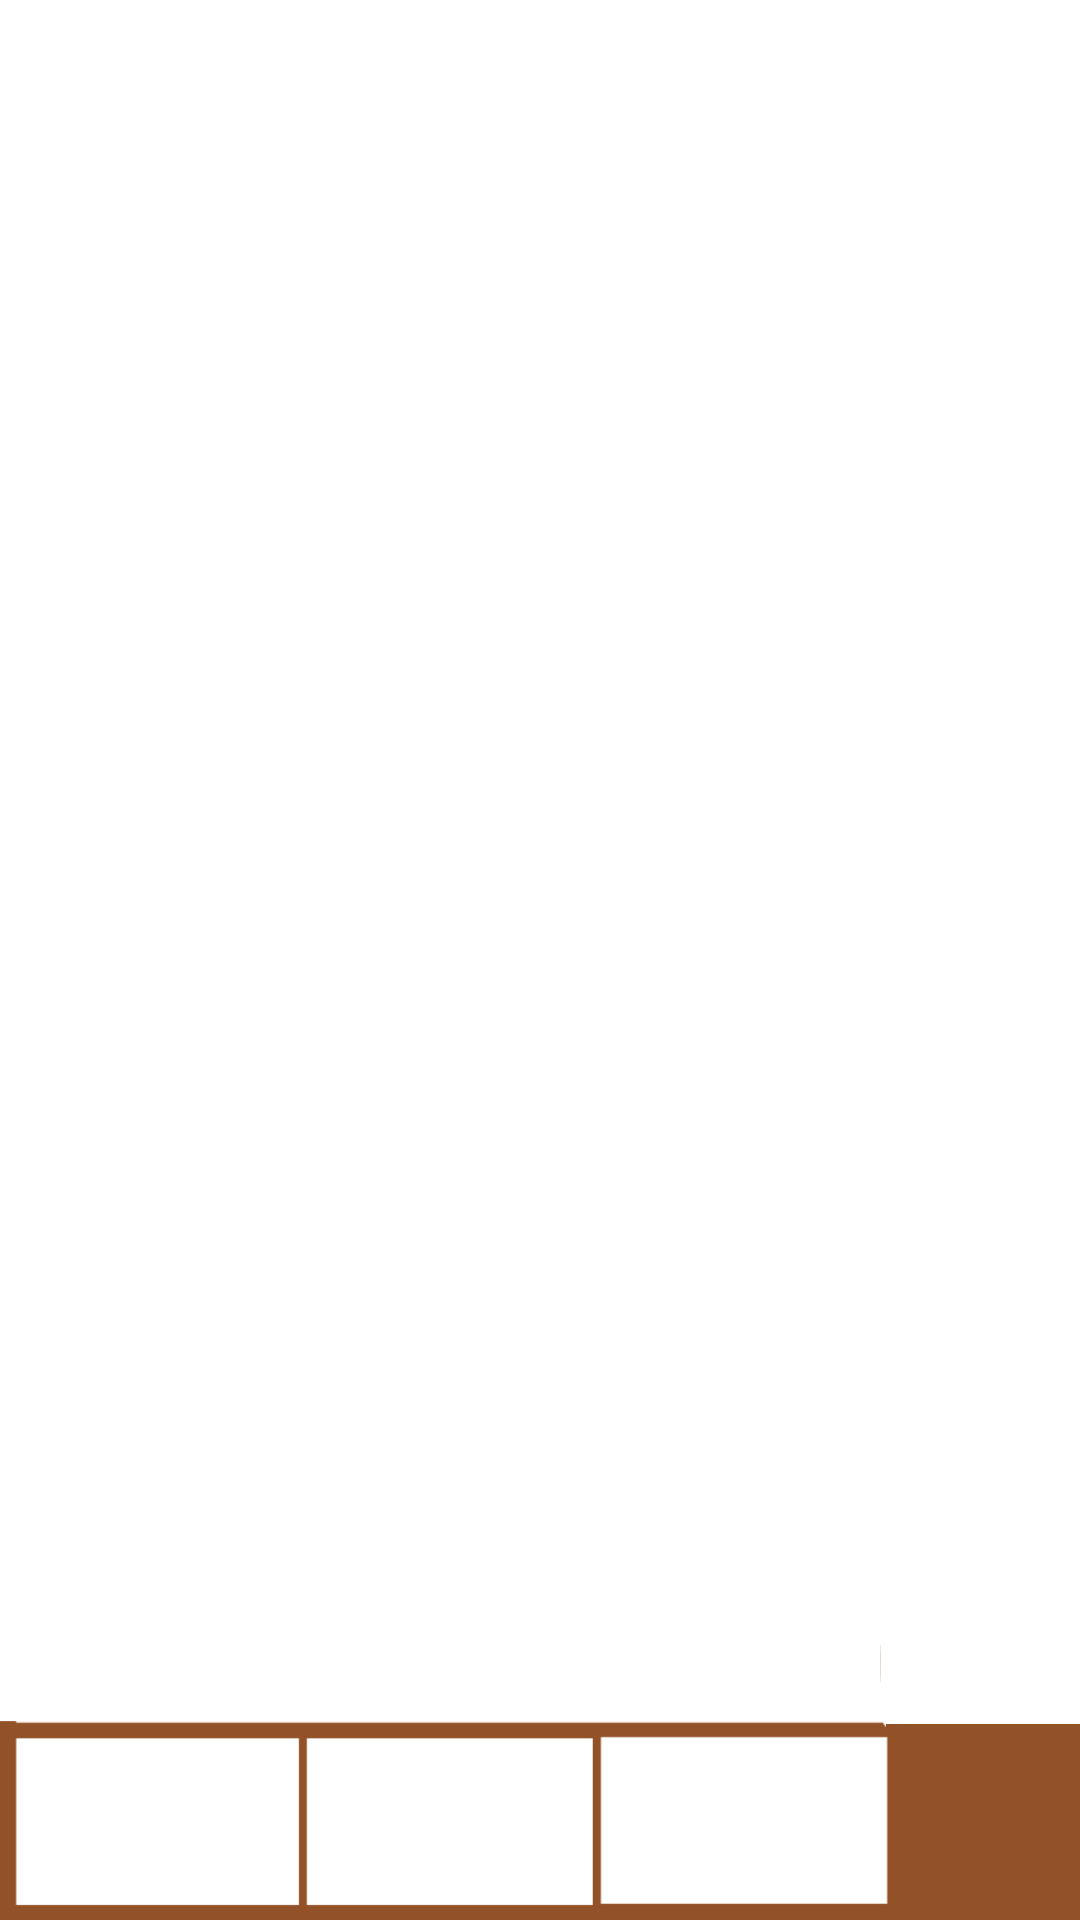
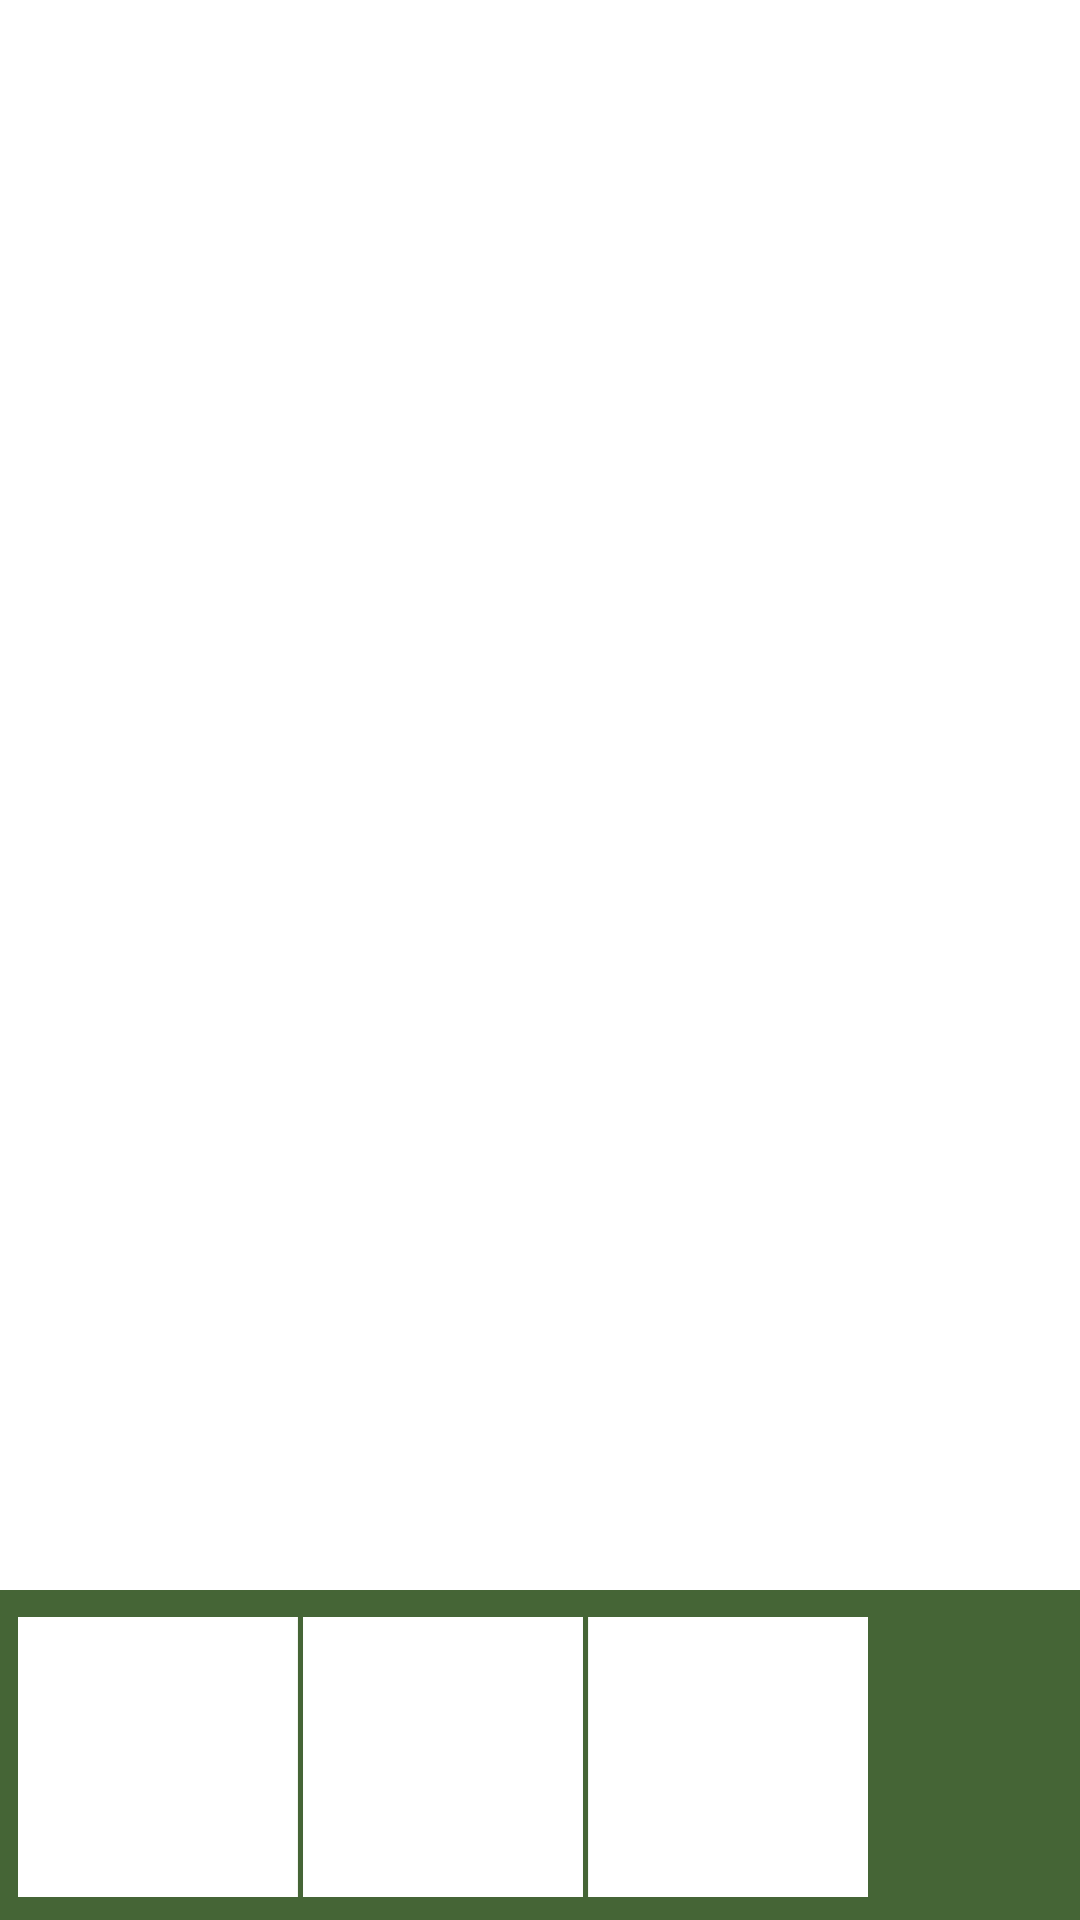
- Modificata UI - Dumby indicator ottimale con solo qualche modifica necessaria

Changed region(s): [[0.0, 0.8125, 1.0, 1.0]]

diff --git a/Assets/Scripts/Misc/DumbyIndicatorMovement.cs b/Assets/Scripts/Misc/DumbyIndicatorMovement.cs
@@ -13,6 +13,7 @@ namespace DumbProject.UI
         public GameObject DumbyIconPrefab;
         GameObject DumbyIcon;
         Rect screenRect;
+        Vector3 dumbyPosition;
 
         private Vector3 lastVaiablePosition;
 
@@ -57,7 +58,6 @@ namespace DumbProject.UI
             if (GetComponentInParent<Renderer>().isVisible)
                 currentStatus = 0;
 
-            Vector3 dumbyPosition;
             switch (currentStatus)
             {
                 case ScreenIndicatorStatus.OnScreen:
@@ -75,6 +75,7 @@ namespace DumbProject.UI
                     lastVaiablePosition = DumbyIcon.transform.position;
                     break;
                 case ScreenIndicatorStatus.BothOutScreen:
+                    dumbyPosition = Camera.main.WorldToScreenPoint(transform.position) + Vector3.up * 70;
                     DumbyIcon.transform.position = lastVaiablePosition;
                     break;
             }
@@ -92,15 +93,23 @@ namespace DumbProject.UI
                 if(!screenRect.Contains(corner))
                 {
                     DumbyIcon.transform.position = lastVaiablePosition;
-                    //if (/*corner.x <= 0 && corner.y <= 0 || corner.x >= screenRect.width && corner.y <= 0 || */
-                    //    corner.x <= 0 && corner.y >= screenRect.height /*|| corner.x >= screenRect.width && corner.y >= screenRect.height*/)
-                    //{
-                    //    return ScreenIndicatorStatus.BothOutScreen;
-                    //}
+                    if (corner.x <= 0 && corner.y <= 0 || corner.x >= screenRect.width && corner.y <= 0 ||
+                        corner.x <= 0 && corner.y >= screenRect.height || corner.x >= screenRect.width && corner.y >= screenRect.height)
+                    {
+                        if (dumbyPosition.x > 0 && dumbyPosition.x < screenRect.width)
+                            return ScreenIndicatorStatus.YOutScreen;
+                        
+                        if (dumbyPosition.y < screenRect.height && dumbyPosition.y > 0)
+                            return ScreenIndicatorStatus.XOutScreen;
+                        
+                        return ScreenIndicatorStatus.BothOutScreen;
+                    }
                     if (corner.x <= 0 || corner.x >= screenRect.width)
                         return ScreenIndicatorStatus.XOutScreen;
+                    
                     if (corner.y >= screenRect.height || corner.y <= 0)
                         return ScreenIndicatorStatus.YOutScreen;
+                    
                 }
             }
             
